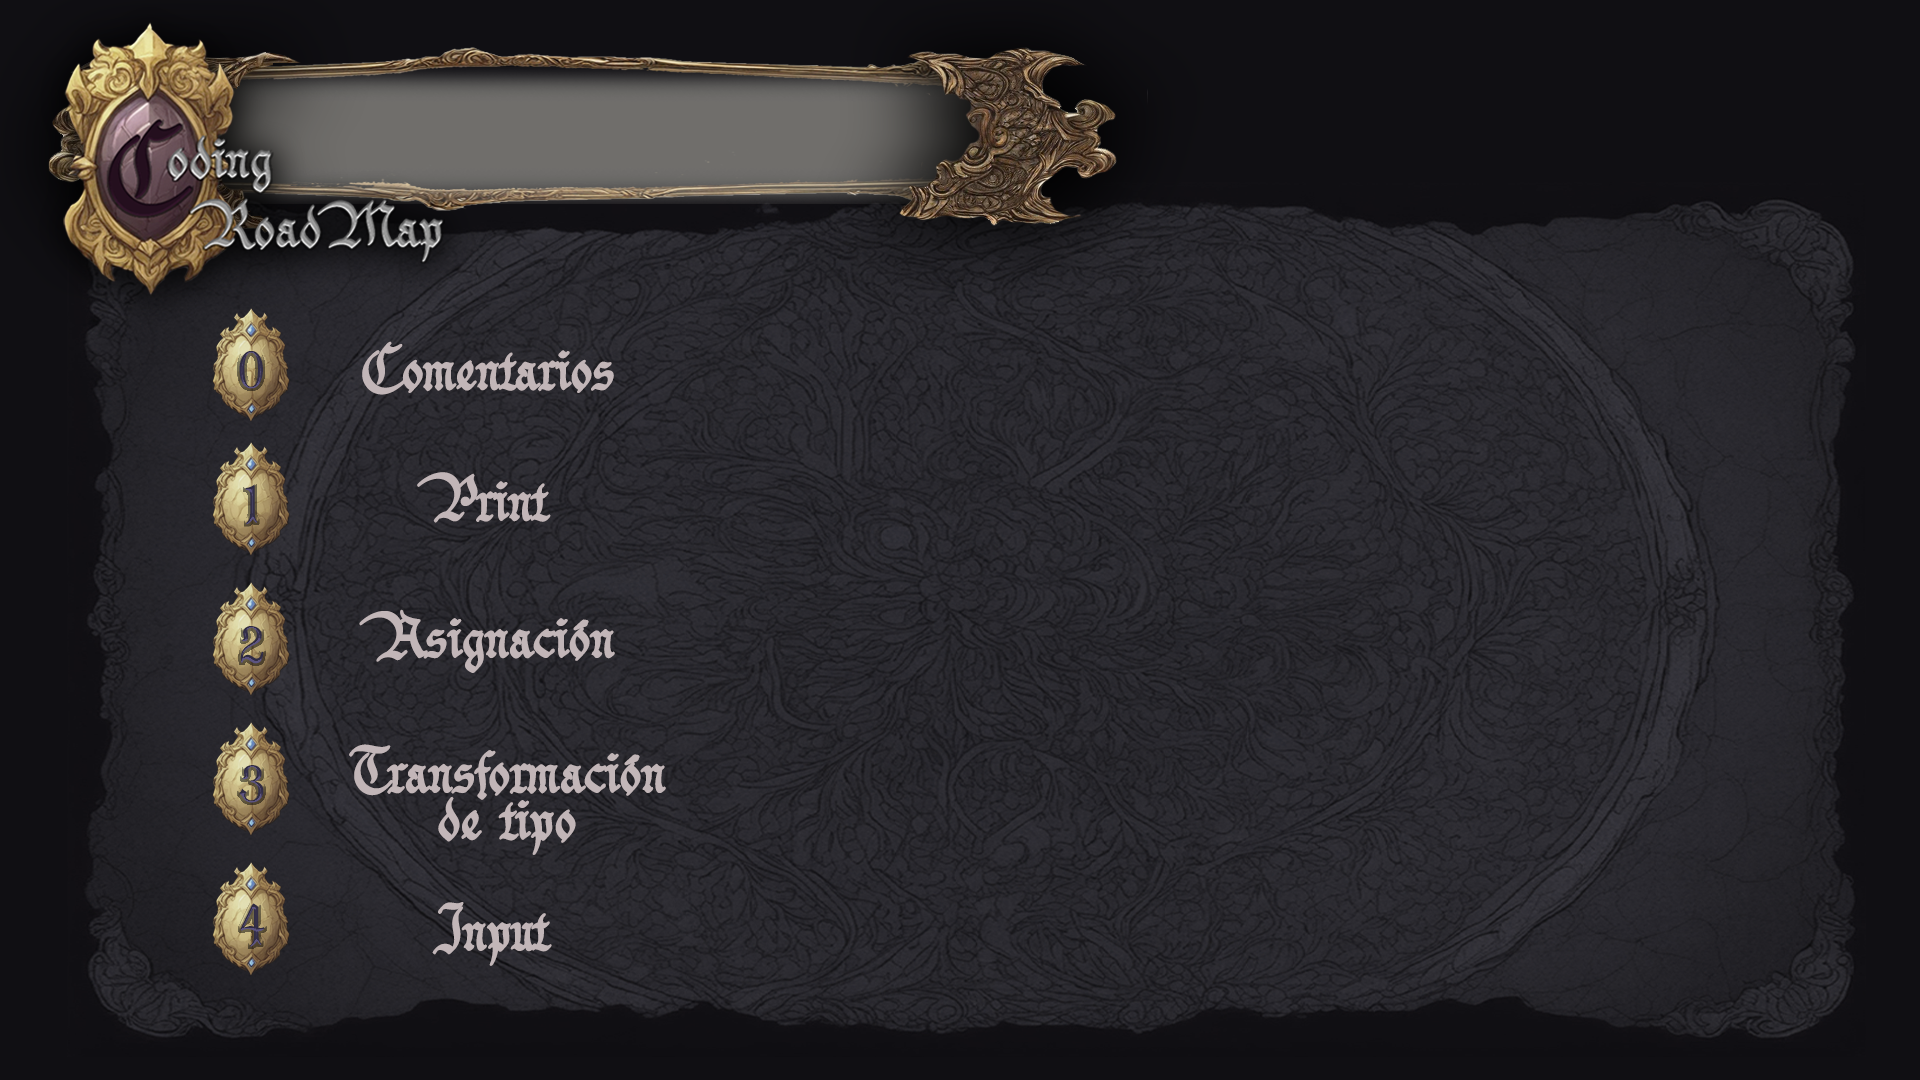
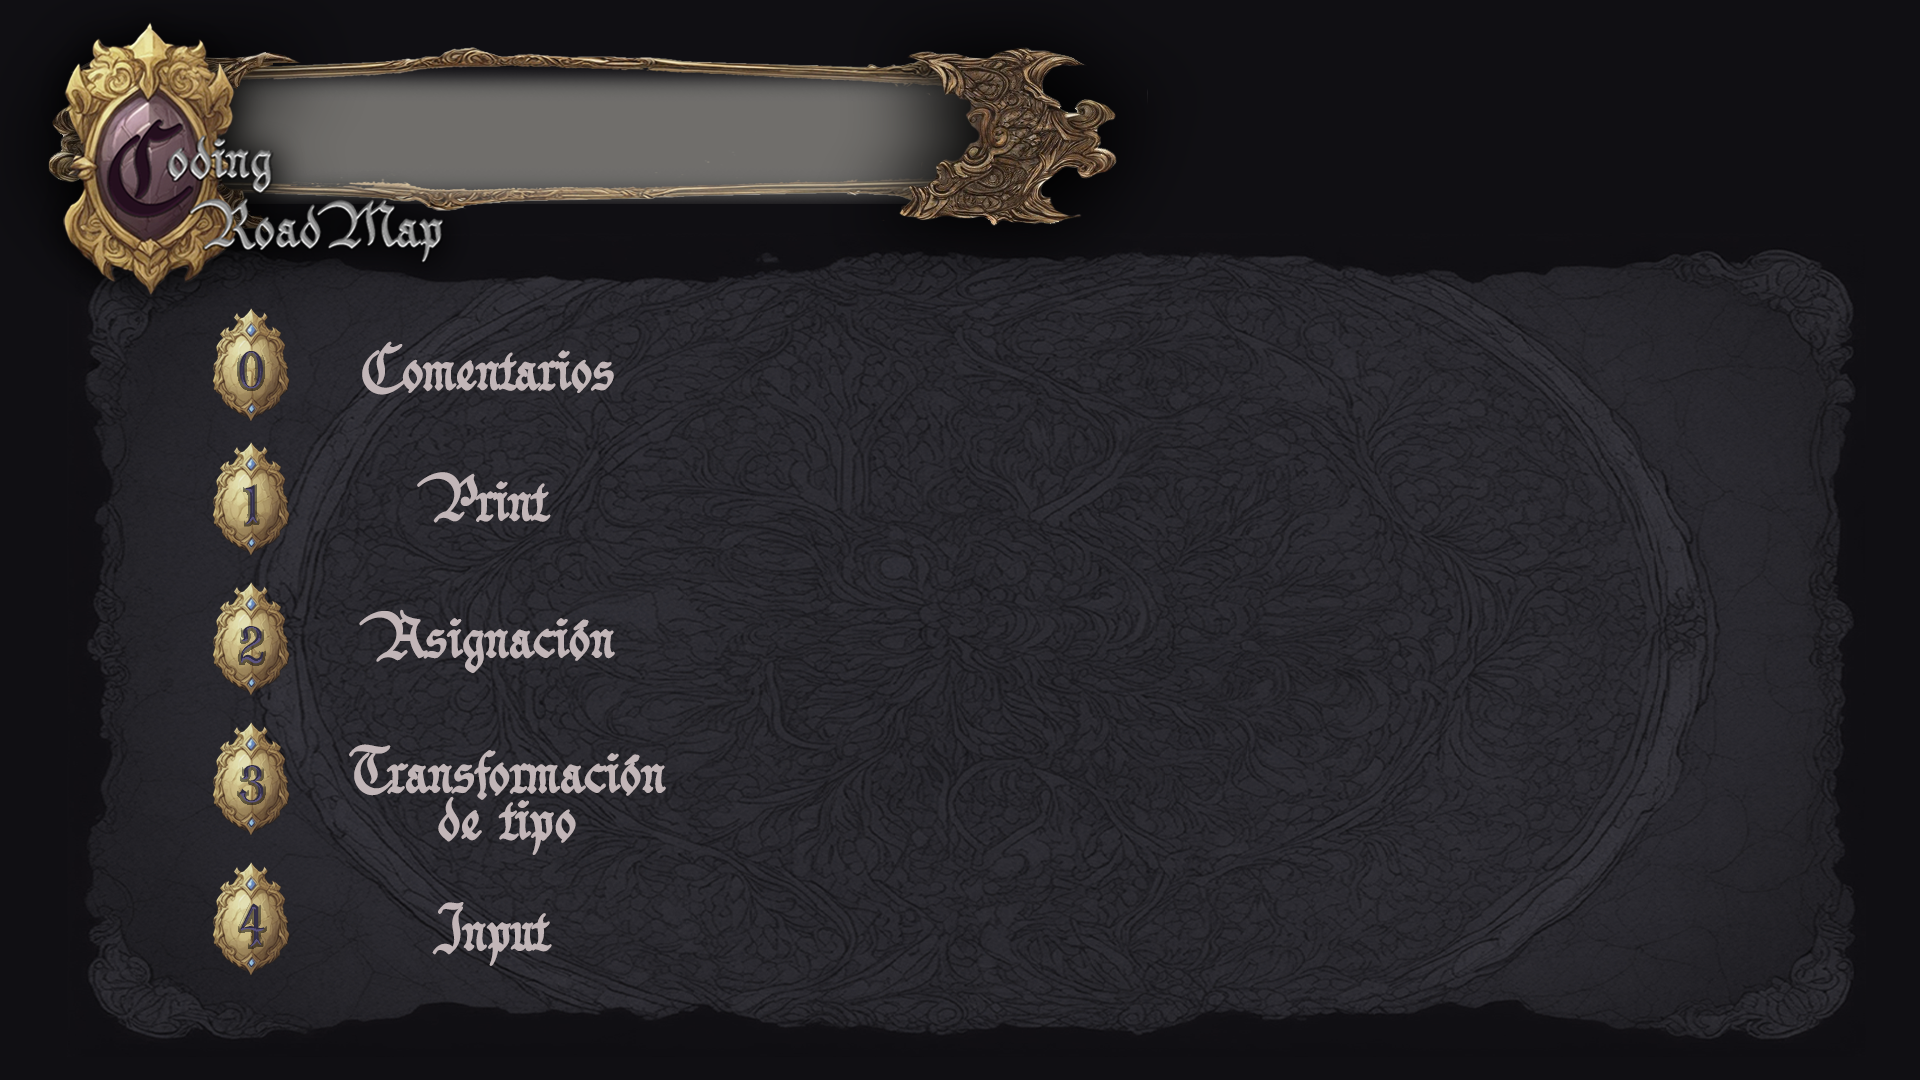
img.

Changed region(s): [[0.5625, 0.1833, 0.875, 0.275], [0.2188, 0.2139, 0.4688, 0.275], [0.875, 0.1833, 0.9688, 0.2444]]

diff --git a/ui/screens/operaciones_comparacion/operaciones_comparacion_0.py b/ui/screens/operaciones_comparacion/operaciones_comparacion_0.py
@@ -39,11 +39,11 @@ def draw(frame, change_screen):
         level_number=0,
         module_number=6,
         background_image_path=resource_path("assets\\images\\background.jpg"),
-        correct_output_image_path=resource_path("assets\\images\\ex-3\\02-01.png"),
-        incorrect_output_image_path=resource_path("assets\\images\\ex-3\\02-02.png"),
+        correct_output_image_path=resource_path("assets\\images\\ex-6\\06-01-r.png"),
+        incorrect_output_image_path=resource_path("assets\\images\\ex-6\\06-01-w.png"),
         title_text="6. Operadores de Comparación",
         subtitle_text='6.1 Menor que (<)',
-        task_text='❧ La perfumería “Essence” vende perfumes de diferentes categorías. Las categorías corresponden a:\nfragancia (floral, cítrica o especiada), temporada (verano o invierno), ocasión (día o noche) y tipo de espacio (abierto o cerrado).\nSe necesita verificar que los pedidos de los clientes estén disponibles según sus requerimientos y el stock. Completar las variables para poder realizar la venta según el pedido del cliente:\n“Estoy buscando un perfume de fragancia cítrica que cueste menos de $6500.”\n*En el caso de que no haya stock del perfume solicitado, el stock será declarado directamente como un valor falso.\n**Los nombres de la fragancia, temporada, ocasión y tipo de espacio deben estar escritos en minúscula y de la misma forma que aparecen en la planilla.',
+        task_text='  La perfumería “Essence” vende perfumes de diferentes categorías. Las categorías corresponden a:\nfragancia (floral, cítrica o especiada), temporada (verano o invierno), ocasión (día o noche) y tipo de espacio (abierto o cerrado).\nSe necesita verificar que los pedidos de los clientes estén disponibles según sus requerimientos y el stock. Completar las variables para poder realizar la venta según el pedido del cliente:\n“Estoy buscando un perfume de fragancia cítrica que cueste menos de $6500.”\n*En el caso de que no haya stock del perfume solicitado, el stock será declarado directamente como un valor falso.\n**Los nombres de la fragancia, temporada, ocasión y tipo de espacio deben estar escritos en minúscula y de la misma forma que aparecen en la planilla.',
         correct_code_text='fragancia = "cítrica"\npresupuesto = 6500\nprecio = 6320\ncumple_requisitos = precio < presupuesto\nprint(f“En el negocio hay disponibilidad de perfume de fragancia {fragancia} de valor inferior a {presupuesto}: {cumple_requisitos}”)\n',
         incorrect_code_text='fragancia =\npresupuesto =\nprecio =\ncumple_requisitos =\nprint(f"En el negocio hay disponibilidad de perfume {fragancia} de valor inferior a {presupuesto}: {cumple_requisitos}")\n'
     )

diff --git a/core/user_progress.py b/core/user_progress.py
@@ -12,7 +12,7 @@ initial_data = {
         }
     },
     "print": {
-        "status": UserProgressStatus.LOCKED.value,
+        "status": UserProgressStatus.IN_PROGRESS.value,
         "current": 0,
         "total": 7,
         "test": {
@@ -21,7 +21,7 @@ initial_data = {
         }
     },
     "asignacion": {
-        "status": UserProgressStatus.LOCKED.value,
+        "status": UserProgressStatus.IN_PROGRESS.value,
         "current": 0,
         "total": 6,
         "test": {
@@ -30,7 +30,7 @@ initial_data = {
         }
     },
     "transformacion": {
-        "status": UserProgressStatus.LOCKED.value,
+        "status": UserProgressStatus.IN_PROGRESS.value,
         "current": 0,
         "total": 4,
         "test": {
@@ -39,7 +39,7 @@ initial_data = {
         }
     },
     "input": {
-        "status": UserProgressStatus.LOCKED.value,
+        "status": UserProgressStatus.IN_PROGRESS.value,
         "current": 0,
         "total": 3,
         "test": {
@@ -48,7 +48,7 @@ initial_data = {
         }
     },
     "operaciones_aritmeticas": {
-        "status": UserProgressStatus.LOCKED.value,
+        "status": UserProgressStatus.IN_PROGRESS.value,
         "current": 0,
         "total": 9,
         "test": {
@@ -57,7 +57,7 @@ initial_data = {
         }
     },
     "operaciones_comparacion": {
-        "status": UserProgressStatus.LOCKED.value,
+        "status": UserProgressStatus.IN_PROGRESS.value,
         "current": 0,
         "total": 6,
         "test": {
@@ -66,7 +66,7 @@ initial_data = {
         }
     },
     "bucle_if": {
-        "status": UserProgressStatus.LOCKED.value,
+        "status": UserProgressStatus.IN_PROGRESS.value,
         "current": 0,
         "total": 19,
         "test": {
@@ -75,7 +75,7 @@ initial_data = {
         }
     },
     "arrays": {
-        "status": UserProgressStatus.LOCKED.value,
+        "status": UserProgressStatus.IN_PROGRESS.value,
         "current": 0,
         "total": 18,
         "test": {
@@ -84,7 +84,7 @@ initial_data = {
         }
     },
     "for": {
-        "status": UserProgressStatus.LOCKED.value,
+        "status": UserProgressStatus.IN_PROGRESS.value,
         "current": 0,
         "total": 5,
         "test": {
@@ -93,7 +93,7 @@ initial_data = {
         }
     },
     "while": {
-        "status": UserProgressStatus.LOCKED.value,
+        "status": UserProgressStatus.IN_PROGRESS.value,
         "current": 0,
         "total": 7,
         "test": {
@@ -102,7 +102,7 @@ initial_data = {
         }
     },
     "funciones": {
-        "status": UserProgressStatus.LOCKED.value,
+        "status": UserProgressStatus.IN_PROGRESS.value,
         "current": 0,
         "total": 15,
         "test": {

diff --git a/ui/screens/landing_2.py b/ui/screens/landing_2.py
@@ -63,7 +63,7 @@ def draw(frame, change_screen):
                 image_book = image_book.resize((50, 70))
                 image_book_tk = ImageTk.PhotoImage(image_book)
                 setattr(canvas, f"image_book_{row_index}", image_book_tk)
-                canvas.create_image(550, 135 + row_offset, anchor=tk.NW, image=image_book_tk)
+                canvas.create_image(500, 160 + row_offset, anchor=tk.NW, image=image_book_tk)
 
             for i in range(value["total"]):
                 state = "LOCKED" if value["status"] == "LOCKED" else "IN_PROGRESS" if i == value["current"] else "LOCKED" if i > value["current"] else "COMPLETED"
@@ -91,14 +91,14 @@ def draw(frame, change_screen):
                     canvas.config(cursor="")
 
                 setattr(canvas, f"image_level_tk_{row_index}_{i}", image_level_tk)
-                button = canvas.create_image(580 + column_offset, 135 + row_offset, anchor=tk.NW, image=image_level_tk)
+                button = canvas.create_image(560 + column_offset, 165 + row_offset, anchor=tk.NW, image=image_level_tk)
                 if state != "LOCKED":
                     canvas.tag_bind(button, "<Enter>", on_image_enter)
                     canvas.tag_bind(button, "<Leave>", on_image_leave)
                     canvas.tag_bind(button, '<Button-1>', on_image_click)
 
                 emblem_image = Image.open(resource_path("assets\\images\\emblems\\" + str(row_index) + ".png"))
-                emblem_image = emblem_image.resize((45, 65))
+                emblem_image = emblem_image.resize((65, 85))
 
                 if value["status"] == "LOCKED":
                     emblem_image_enhance = ImageEnhance.Brightness(emblem_image)
@@ -108,7 +108,7 @@ def draw(frame, change_screen):
                     emblem_image_tk = ImageTk.PhotoImage(emblem_image)
 
                 setattr(canvas, f"emblem_image_tk_{row_index}", emblem_image_tk)
-                canvas.create_image(580 + column_offset + emblems_offset, 135 + row_offset, anchor=tk.NW, image=emblem_image_tk)
+                canvas.create_image(580 + column_offset + emblems_offset, 155 + row_offset, anchor=tk.NW, image=emblem_image_tk)
 
                 column_offset += 63
 

diff --git a/ui/screens/landing.py b/ui/screens/landing.py
@@ -70,7 +70,7 @@ def draw(frame, change_screen):
                     canvas.config(cursor="")
 
                 setattr(canvas, f"image_book_{row_index}", image_book_tk)
-                book_buttom = canvas.create_image(450, 100 + row_offset, anchor=tk.NW, image=image_book_tk)
+                book_buttom = canvas.create_image(500, 160 + row_offset, anchor=tk.NW, image=image_book_tk)
                 canvas.tag_bind(book_buttom, "<Enter>", on_book_buttom_enter)
                 canvas.tag_bind(book_buttom, "<Leave>", on_book_buttom_leave)
 
@@ -100,14 +100,14 @@ def draw(frame, change_screen):
                     canvas.config(cursor="")
 
                 setattr(canvas, f"image_level_tk_{row_index}_{i}", image_level_tk)
-                button = canvas.create_image(580 + column_offset, 135 + row_offset, anchor=tk.NW, image=image_level_tk)
+                button = canvas.create_image(560 + column_offset, 165 + row_offset, anchor=tk.NW, image=image_level_tk)
                 if state != "LOCKED":
                     canvas.tag_bind(button, "<Enter>", on_image_enter)
                     canvas.tag_bind(button, "<Leave>", on_image_leave)
                     canvas.tag_bind(button, '<Button-1>', on_image_click)
 
                 emblem_image = Image.open(resource_path("assets\\images\\emblems\\" + str(row_index) + ".png"))
-                emblem_image = emblem_image.resize((45, 65))
+                emblem_image = emblem_image.resize((65, 85))
 
                 if value["status"] == "LOCKED":
                     emblem_image_enhance = ImageEnhance.Brightness(emblem_image)
@@ -117,7 +117,7 @@ def draw(frame, change_screen):
                     emblem_image_tk = ImageTk.PhotoImage(emblem_image)
 
                 setattr(canvas, f"emblem_image_tk_{row_index}", emblem_image_tk)
-                canvas.create_image(580 + column_offset + emblems_offset, 135 + row_offset, anchor=tk.NW,
+                canvas.create_image(580 + column_offset + emblems_offset, 155 + row_offset, anchor=tk.NW,
                                     image=emblem_image_tk)
 
                 column_offset += 63

diff --git a/ui/components/screen_layout.py b/ui/components/screen_layout.py
@@ -178,7 +178,7 @@ class ScreenLayout:
 
         # Start Book #
         book_image_image = Image.open(resource_path(f"assets\\images\\books\\{self.module_number}.png"))
-        book_image_image = book_image_image.resize((28, 44))
+        book_image_image = book_image_image.resize((36, 52))
         book_image_image_tk = ImageTk.PhotoImage(book_image_image)
 
         def on_book_button_image_enter(event):
@@ -188,7 +188,7 @@ class ScreenLayout:
             canvas.config(cursor="")
 
         setattr(canvas, f"book_image_tk_{i}", book_image_image_tk)
-        book_button = canvas.create_image(1220, 665, anchor="w", image=book_image_image_tk)
+        book_button = canvas.create_image(1220, 668, anchor="w", image=book_image_image_tk)
         canvas.tag_bind(book_button, "<Enter>", on_book_button_image_enter)
         canvas.tag_bind(book_button, "<Leave>", on_book_button_image_leave)
         # End Book #
@@ -210,7 +210,7 @@ class ScreenLayout:
             canvas.config(cursor="")
 
         setattr(canvas, f"back_arrow_image_tk_{i}", back_arrow_image_tk)
-        back_arrow_button = canvas.create_image(25, 57, anchor="w", image=back_arrow_image_tk)
+        back_arrow_button = canvas.create_image(45, 57, anchor="w", image=back_arrow_image_tk)
         canvas.tag_bind(back_arrow_button, "<Enter>", on_arrow_click_image_enter)
         canvas.tag_bind(back_arrow_button, "<Leave>", on_arrow_click_image_leave)
         canvas.tag_bind(back_arrow_button, '<Button-1>', on_back_arrow_click)

diff --git a/ui/screens/operaciones_comparacion/operaciones_comparacion_3.py b/ui/screens/operaciones_comparacion/operaciones_comparacion_3.py
@@ -40,8 +40,8 @@ def draw(frame, change_screen):
         level_number=3,
         module_number=6,
         background_image_path=resource_path("assets\\images\\background.jpg"),
-        correct_output_image_path=resource_path("assets\\images\\ex-3\\02-01.png"),
-        incorrect_output_image_path=resource_path("assets\\images\\ex-3\\02-02.png"),
+        correct_output_image_path=resource_path("assets\\images\\ex-6\\06-04-r.png"),
+        incorrect_output_image_path=resource_path("assets\\images\\ex-6\\06-04-w.png"),
         title_text="6. Operadores de Comparación",
         subtitle_text='6.4 Mayor o igual que (>=)',
         task_text='❧ Declarar y completar las variables necesarias para poder realizar la venta según el pedido del cliente:\n“Estoy buscando un perfume de fragancia floral para usar en un salón cerrado para un casamiento la semana que viene,\ncomo es un evento importante estaría dispuesta a gastar más de $5500 pero menos de $6500, incluidos ambos valores” \n*Tener en cuenta que el dato del salón “cerrado” corresponde a la categoría espacio.\n**Es posible que en este caso haya que declarar un presupuesto máximo y uno mínimo ya que se trata de un rango.',

diff --git a/ui/screens/operaciones_comparacion/operaciones_comparacion_5.py b/ui/screens/operaciones_comparacion/operaciones_comparacion_5.py
@@ -40,8 +40,8 @@ def draw(frame, change_screen):
         level_number=5,
         module_number=6,
         background_image_path=resource_path("assets\\images\\background.jpg"),
-        correct_output_image_path=resource_path("assets\\images\\ex-3\\02-01.png"),
-        incorrect_output_image_path=resource_path("assets\\images\\ex-3\\02-02.png"),
+        correct_output_image_path=resource_path("assets\\images\\ex-6\\06-06-r.png"),
+        incorrect_output_image_path=resource_path("assets\\images\\ex-6\\06-06-w.png"),
         title_text="6. Operadores de Comparación",
         subtitle_text='6.6 No igual que (!=)',
         task_text='❧ Declarar y completar las variables necesarias para poder realizar la venta según el pedido del cliente.\nEssence está lanzando una nueva campaña “OraNge” y por el día de hoy solo se venderá el perfume cítrico de naranja.\nRequerimientos del cliente:\n“Estoy buscando un perfume de nicho que no sea cítrico porque me produce alergia.“\n*Recordar que los operadores de comparación no se usan únicamente con números, también se pueden utilizar con datos de tipo string.',

diff --git a/ui/screens/operaciones_comparacion/operaciones_comparacion_4.py b/ui/screens/operaciones_comparacion/operaciones_comparacion_4.py
@@ -40,8 +40,8 @@ def draw(frame, change_screen):
         level_number=4,
         module_number=6,
         background_image_path=resource_path("assets\\images\\background.jpg"),
-        correct_output_image_path=resource_path("assets\\images\\ex-3\\02-01.png"),
-        incorrect_output_image_path=resource_path("assets\\images\\ex-3\\02-02.png"),
+        correct_output_image_path=resource_path("assets\\images\\ex-6\\06-05-r.png"),
+        incorrect_output_image_path=resource_path("assets\\images\\ex-6\\06-05-w.png"),
         title_text="6. Operadores de Comparación",
         subtitle_text='6.5 Igual que (==)',
         task_text='❧ Declarar y completar las variables necesarias para poder realizar la venta según el pedido del cliente.\nEn este caso, la caja registradora NO tiene cambio, es decir,\nno se puede devolver vuelto y solo se puede abonar con billetes de $100 o $1000:\n“Estoy buscando un perfume de fragancia cítrica para usar en el verano durante el día, tengo para gastar en efectivo 6880.”',

diff --git a/ui/screens/operaciones_comparacion/operaciones_comparacion_2.py b/ui/screens/operaciones_comparacion/operaciones_comparacion_2.py
@@ -39,8 +39,8 @@ def draw(frame, change_screen):
         level_number=2,
         module_number=6,
         background_image_path=resource_path("assets\\images\\background.jpg"),
-        correct_output_image_path=resource_path("assets\\images\\ex-3\\02-01.png"),
-        incorrect_output_image_path=resource_path("assets\\images\\ex-3\\02-02.png"),
+        correct_output_image_path=resource_path("assets\\images\\ex-6\\06-03.png"),
+        incorrect_output_image_path=resource_path("assets\\images\\ex-6\\06-03.png"),
         title_text="6. Operadores de Comparación",
         subtitle_text='6.3 Mayor que (>)',
         task_text='❧ Declarar y completar las variables necesarias para poder realizar la venta según el pedido del cliente:\n“Estoy buscando un perfume de fragancia especiada para usar mañana por la noche, puedo gastar hasta $5120.” \n*Tener en cuenta que el dato de la “noche” corresponde a la ocasión.',

diff --git a/ui/screens/operaciones_comparacion/operaciones_comparacion_1.py b/ui/screens/operaciones_comparacion/operaciones_comparacion_1.py
@@ -39,8 +39,8 @@ def draw(frame, change_screen):
         level_number=1,
         module_number=6,
         background_image_path=resource_path("assets\\images\\background.jpg"),
-        correct_output_image_path=resource_path("assets\\images\\ex-3\\02-01.png"),
-        incorrect_output_image_path=resource_path("assets\\images\\ex-3\\02-02.png"),
+        correct_output_image_path=resource_path("assets\\images\\ex-6\\06-02-r.png"),
+        incorrect_output_image_path=resource_path("assets\\images\\ex-6\\06-02-w.png"),
         title_text="6. Operadores de Comparación",
         subtitle_text='6.2 Menor o igual que (<=)',
         task_text='❧ Declarar y completar las variables necesarias para poder realizar la venta según el pedido del cliente:\n“Estoy buscando un perfume para usar este verano, tengo $7450.',
